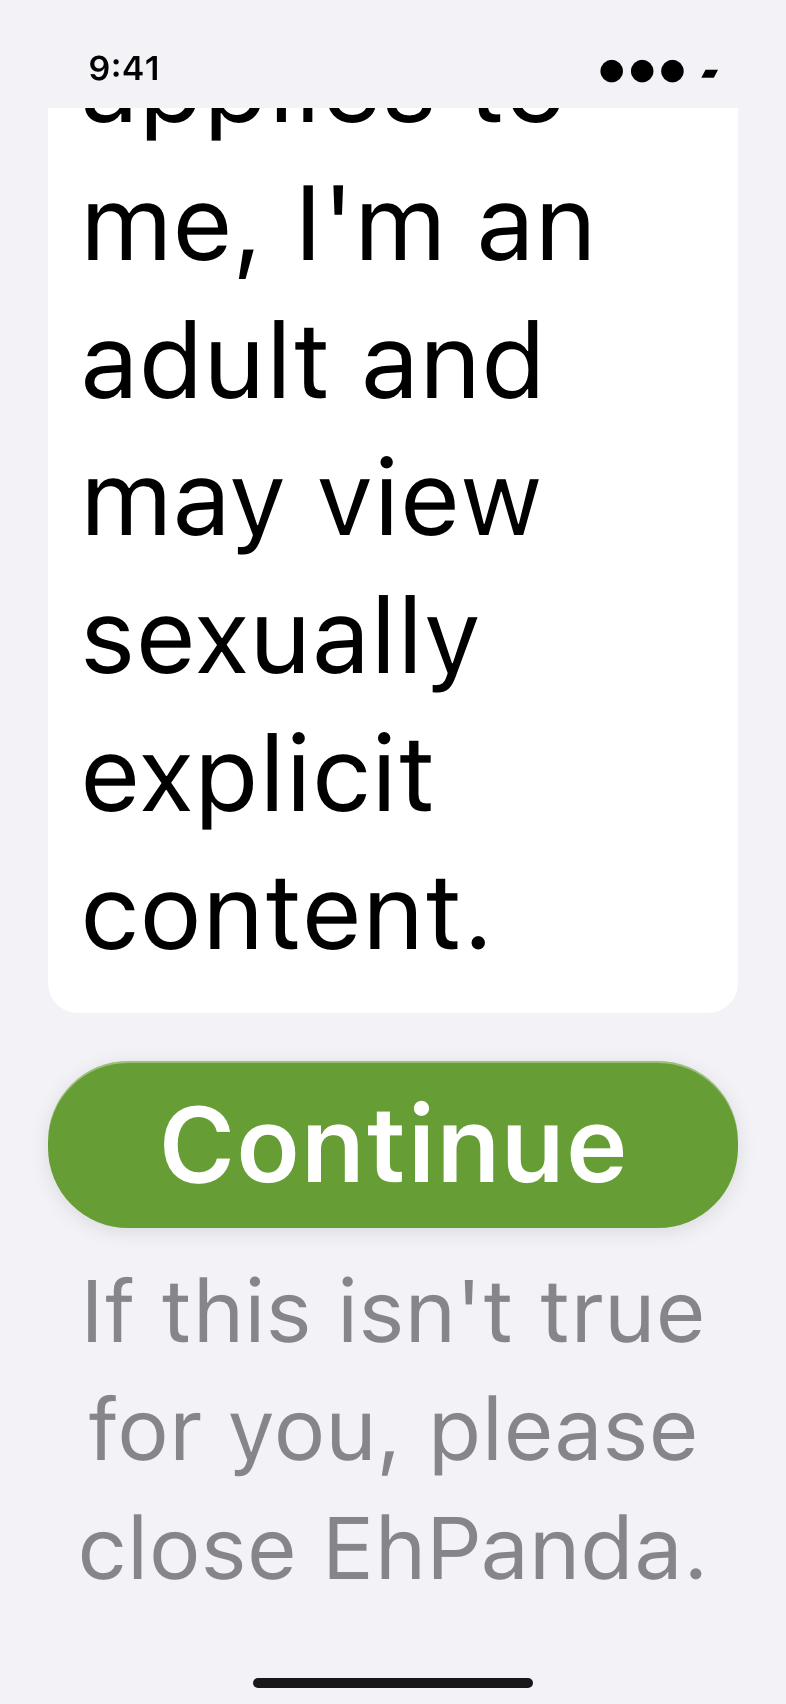
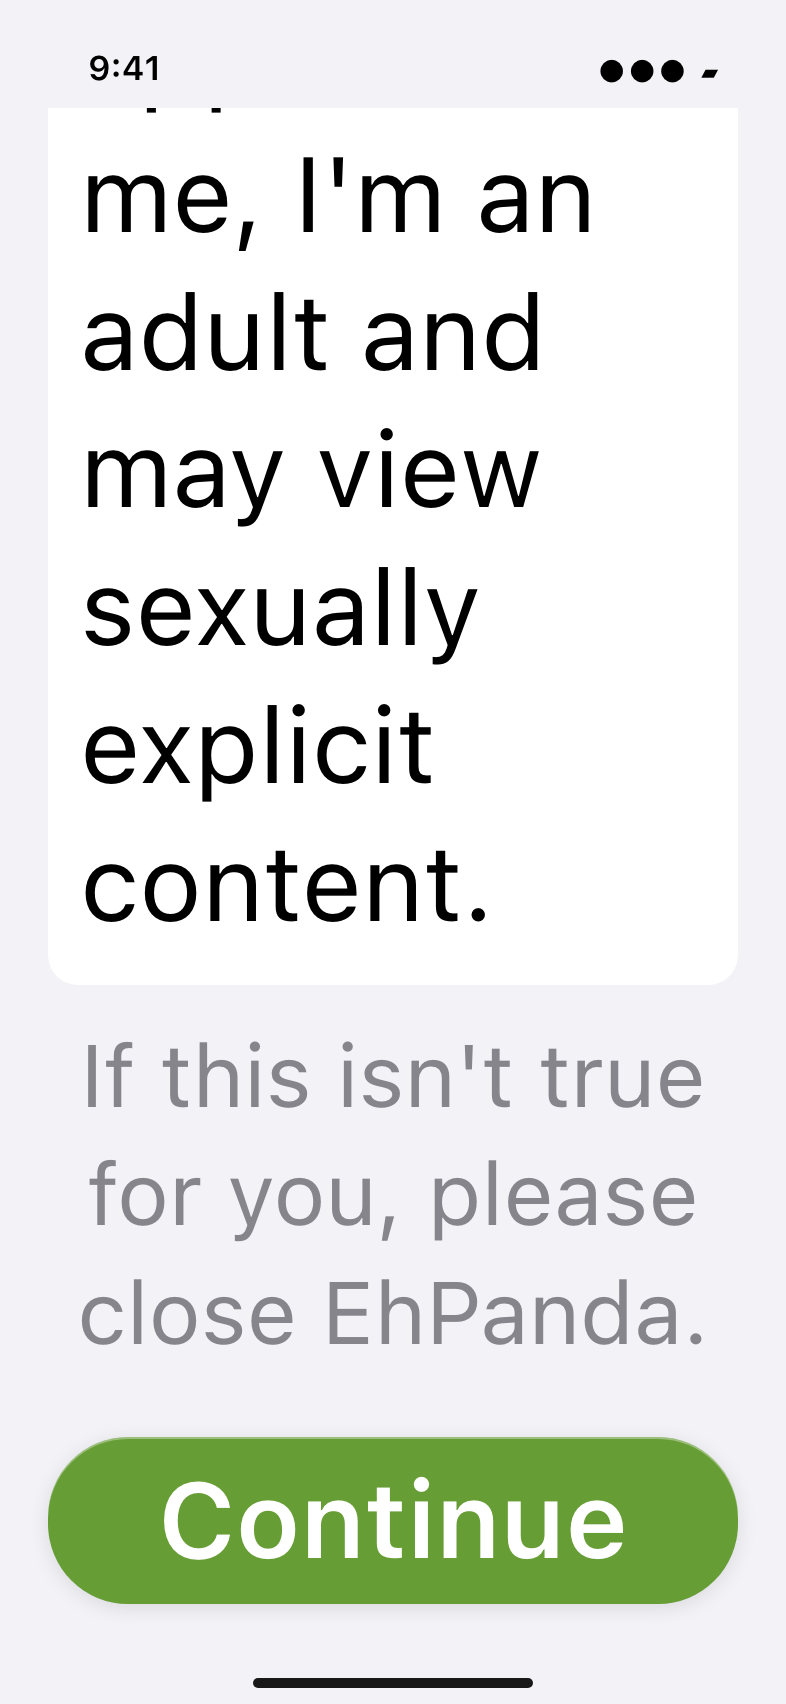
docs(18): keep Continue pinned at every text size
UI-SPEC C-1 and C-2 item 6 (owner msg 1903, designer msg 1905): Continue
stays in the bottom bar at accessibility sizes too, and the age-wall
footnote becomes the last scroll item there. Mockups 16, 17 and 18
refreshed; D-17b recorded in 18-CONTEXT.md.

Changed region(s): [[0.0611, 0.591, 0.9466, 0.9642], [0.0916, 0.0622, 0.7023, 0.5599], [0.6107, 0.0622, 0.7634, 0.1866]]

diff --git a/.planning/phases/18-in-app-3-0-readiness-age-wall-analytics-choice-comment-moder/18-UI-SPEC.md b/.planning/phases/18-in-app-3-0-readiness-age-wall-analytics-choice-comment-moder/18-UI-SPEC.md
@@ -215,10 +215,10 @@ Numbers C-1…C-12 are referenced from UI Considerations. Mockup frame numbers i
 - Background `systemGroupedBackground`, edge to edge. No navigation bar, no back, no close, no skip.
 - Content: `ScrollView` → `VStack(spacing: 0)` capped at 560pt, centred, side margins 24pt.
 - **Continue bar:** `.safeAreaBar(edge: .bottom)` (soft scroll-edge effect under it) holding `FirstLaunchContinueButton`
-  full column width, 8pt top, 16pt bottom above the safe area. At accessibility sizes
-  (`dynamicTypeSize.isAccessibilitySize`) the bar is removed and the same button (plus the age-wall footnote) is the
-  last item of the scroll content, 24pt below the last card, with 48pt after it — a pinned bar would cover half the
-  screen at AX5 [16, 17].
+  full column width, 8pt top, 16pt bottom above the safe area. **Pinned at every text size** (owner msg 1903),
+  including accessibility sizes: the button alone is ≈ 18% of an iPhone screen at AX5, which keeps Continue one tap
+  away without scrolling. The bar holds only the button; the age-wall footnote's place depends on size (C-2 item 6).
+  The last scroll item ends 24pt above the bar (the bar's safe-area inset handles the rest) [16, 17, 18].
 - `FirstLaunchContinueButton`: `Button { } label: { Text(age_wall.continue).frame(maxWidth: .infinity) }`,
   `.buttonStyle(.glassProminent)`, `.controlSize(.large)`, `.tint(.accentColor)`, label colour per Color (on-accent),
   `.keyboardShortcut(.defaultAction)`. `.disabled(...)` per screen.
@@ -250,8 +250,10 @@ Top to bottom inside the column:
      (≈ 28pt at default); `.contentTransition(.symbolEffect(.replace))`; Reduce Motion: no effect.
    - Haptic on tick and untick: `.sensoryFeedback(.selection, trigger: isOn)`.
 5. Continue (in the bar) — `.disabled(!isOn)`. While disabled: `.accessibilityHint(age_wall.continue_hint)`.
-6. 12pt under Continue · Footnote `age_wall.footnote`, `.footnote`, `.secondary`, centred. **Always rendered** (D-04)
-   — in the bar under the button, or at AX sizes right under the in-content button.
+6. Footnote `age_wall.footnote`, `.footnote`, `.secondary`, centred. **Always rendered** (D-04). Default sizes: in the
+   bar, 12pt under the button. Accessibility sizes (`dynamicTypeSize.isAccessibilitySize`): the last item of the
+   scroll content, 16pt under the checkbox card — in the bar it would add three AX5 lines (≈ 160pt) to the pinned
+   area [17].
 
 Behaviour: unticking re-dims Continue. Continue stores the answer + wording version, then transitions to C-3. There is
 no "No" button, no exit button, no "verify", no date picker, no age number, no "18+". Return key triggers Continue
@@ -475,7 +477,7 @@ Applicable state considerations resolved: 21 covered, 3 backstop, 0 unresolved.
 | long-text | German / Korean / Japanese strings in alerts and menus | ✅ covered | System alerts stack buttons vertically when they don't fit; menus wrap |
 | long-text | Long author names in "Block %@", list rows | ✅ covered | Menus and list rows wrap; nothing truncates |
 | long-text | Collapsed label in other languages | ✅ covered | `ViewThatFits` falls back to stacked; buttons wrap at AX sizes |
-| overflow | Age wall / analytics at AX5, landscape iPhone | ✅ covered | Everything scrolls; Continue + footnote move into the content at AX sizes |
+| overflow | Age wall / analytics at AX5, landscape iPhone | ✅ covered | Content scrolls under the pinned Continue bar; at AX sizes the age-wall footnote becomes the last scroll item |
 | privacy | Collapsed row | ✅ covered | Never the name, avatar, score, date or text — also not in accessibility labels or values |
 | input | Pointer / trackpad / keyboard | ✅ covered | System hover on buttons and menus, `.hoverEffect(.highlight)` on the cards, secondary click opens the context menu, Return = Continue when enabled, alerts take Return/Esc. Hover follows the input that is present, never the device type |
 | visual | All new screens light/dark, iPhone/iPad, default and AX5 | 🧪 backstop | Phase 19 snapshots must include frames 01–22's states; compare against `mockups/` |

diff --git a/.planning/phases/18-in-app-3-0-readiness-age-wall-analytics-choice-comment-moder/18-CONTEXT.md b/.planning/phases/18-in-app-3-0-readiness-age-wall-analytics-choice-comment-moder/18-CONTEXT.md
@@ -5,7 +5,7 @@
 **Amended:** 2026-11-05, during planning: D-06a, D-06b, DD-09a (owner msgs 1795, 1796, 1805; analytics "Minimal"),
 D-06c (owner msgs 1812, 1818; the install signal carries the install source), D-06d (owner msgs 1830, 1839; Basic's
 description builds on Minimal), D-06e (owner msgs 1844, 1854, 1864; the short analytics intro), D-06f (owner msgs 1869, 1880, 1882; screens and
-features move to Basic, Basic marked Recommended), D-06g (owner msg 1898; the analytics footer joins the intro), D-14a (owner msg 1795; Blocked Users in Account settings), D-17a (UI-SPEC delivered, msgs 1791, 1803, 1807, 1820, 1826, 1843, 1866, 1886, 1899). The
+features move to Basic, Basic marked Recommended), D-06g (owner msg 1898; the analytics footer joins the intro), D-17b (owner msg 1903, designer msg 1905; Continue pinned at every size), D-14a (owner msg 1795; Blocked Users in Account settings), D-17a (UI-SPEC delivered, msgs 1791, 1803, 1807, 1820, 1826, 1843, 1866, 1886, 1899). The
 original decisions are kept as written; where an amendment differs, the amendment wins.
 **Sources:** the discussion prep [18-DISCUSSION-PREP.md](18-DISCUSSION-PREP.md) (locked decisions L1 to L46, gray areas GA-1 to GA-8, developer defaults, outside blockers, split proposal); the owner's answers to card msg 1748 (owner msg 1753) and card msg 1759 (owner msg 1765); the owner's copy approvals (msgs 1767, 1780). Where the owner answered, the answer overrides the prep. All dates are UTC.
 
@@ -221,6 +221,9 @@ Owner decisions are binding. "Prep L*n*" and "GA-*n*" refer to [18-DISCUSSION-PR
   zh-Hant. The Privacy Policy link moves up under that paragraph (8pt), and the cards follow 16pt below the link;
   nothing sits under the cards. No string changes. The en intro is now expected to wrap to three lines on iPhone at
   default size. UI-SPEC C-3 items 3 to 6 are the contract.
+- **D-17b (owner msg 1903, designer msg 1905):** Continue pinned at every size; at AX sizes the age-wall footnote is
+  the last scroll item (16pt under the checkbox card). UI-SPEC C-1 (Continue bar) and C-2 item 6 are the contract;
+  mockups 16, 17 and 18 refreshed.
 - **D-07:** Settings follows the copy file's "Settings (replaces today's toggle)" section:
   - The row label `shareAnalyticsData` stays, now as a picker with the three level labels.
   - The footer shows the selected level's description.
